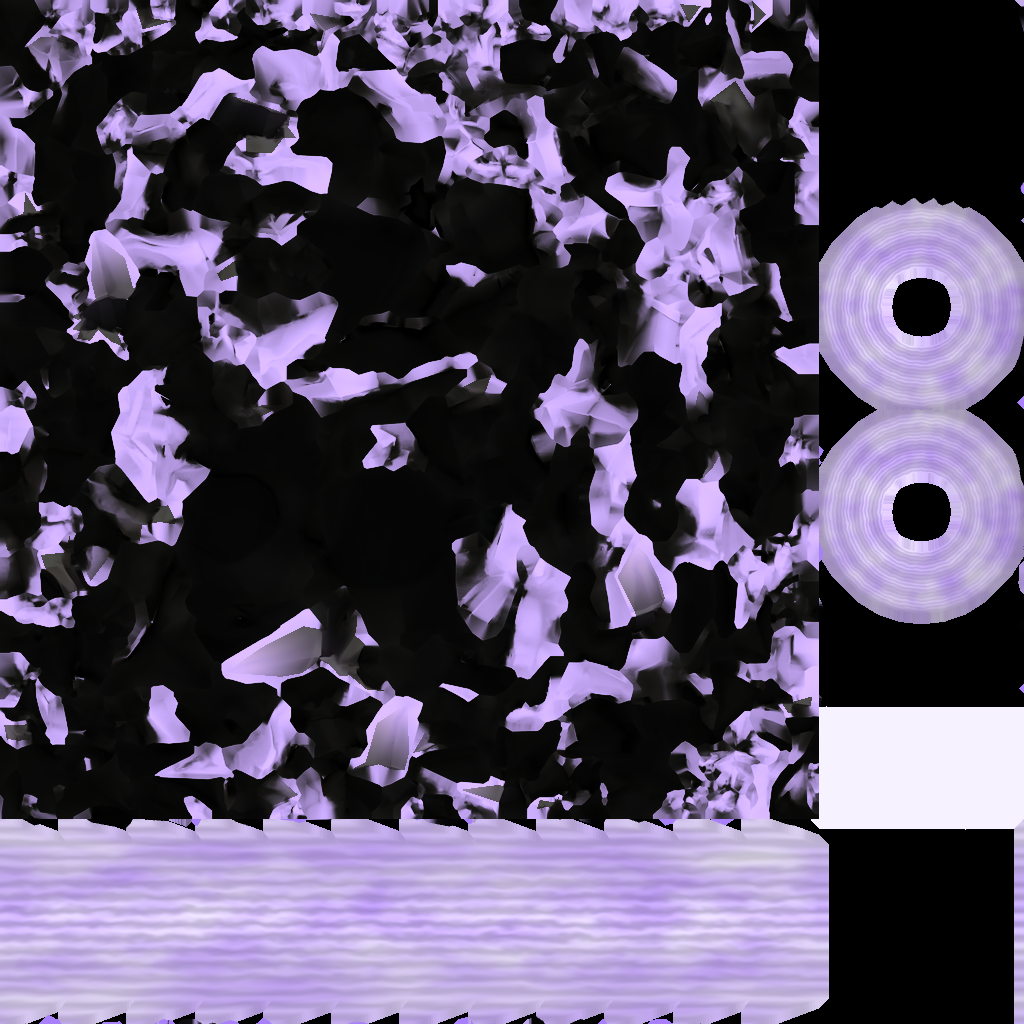
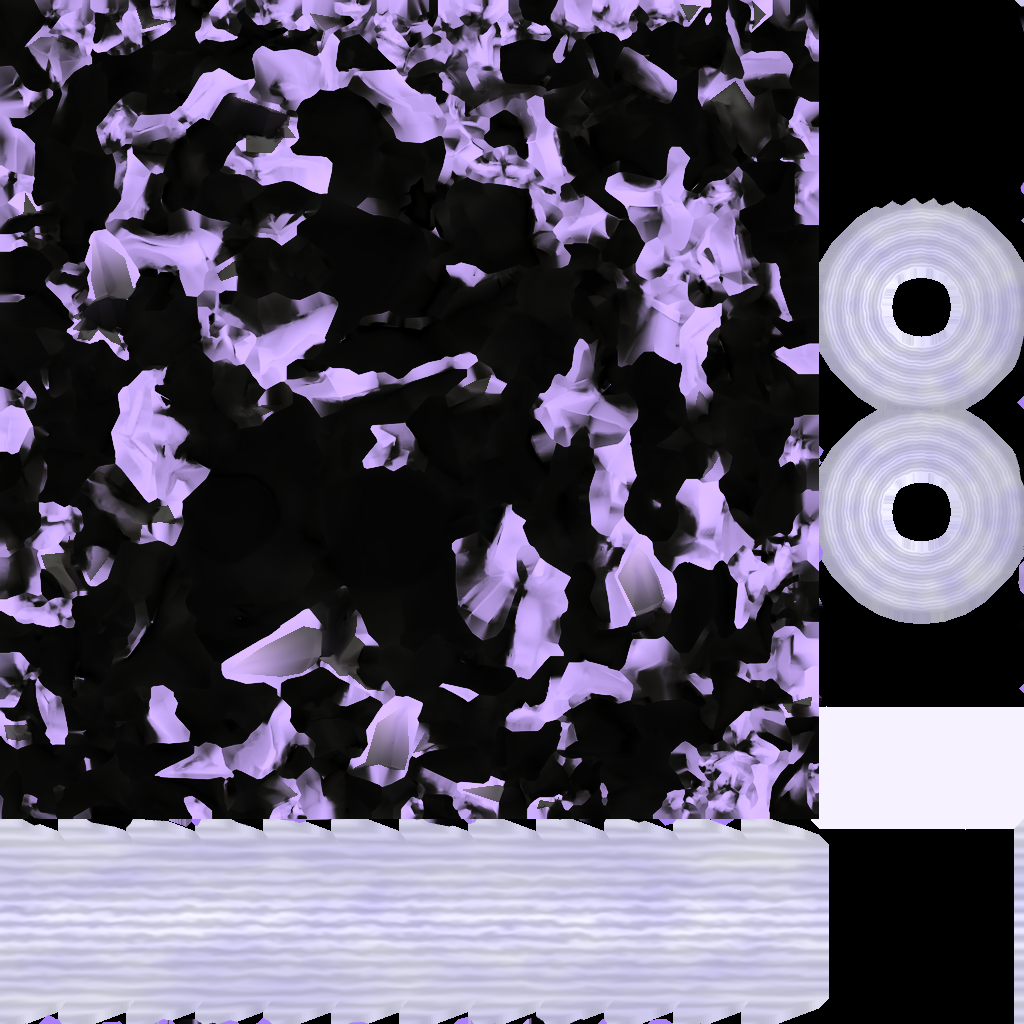
Horns + black hole: cooler lavender black hole colour (less pink)
Claude-Session: https://claude.ai/code/session_01M8xpJeZPsNE3rcjNjv2sRU

diff --git a/horns_blackhole/tools/bake.py b/horns_blackhole/tools/bake.py
@@ -40,9 +40,9 @@ e=0.30*ss(0.012,0.004,th)*(~chain)                  # faint glow on the very tip
 e[pend]=0.75
 col[m]=c; met[m]=mt; rgh[m]=np.clip(r,0.05,0.9); em[m]=e; h[m]=0.35*ridges+0.1*mid[m]
 # ---------- black hole ----------
-white=np.array([0.97,0.96,1.0]); mauve=np.array([0.76,0.62,1.0]); deep=np.array([0.62,0.50,0.95])
+white=np.array([0.97,0.97,1.0]); mauve=np.array([0.80,0.78,1.0])   # cool pale lavender, not pink; deep=np.array([0.62,0.50,0.95])
 def tint(v,seedp,sc_):
-    w=np.clip(0.55+1.1*fbm(seedp*sc_,3,17),0,1)[:,None]          # patches between white and light mauve
+    w=np.clip(0.45+1.0*fbm(seedp*sc_,3,17),0,1)[:,None]          # patches between white and light mauve
     return white*(1-w)+mauve*w
 m=k==PARTS.index('hole')                       # event horizon: absolute black, matte, no glow
 col[m]=0.0; met[m]=1.0; rgh[m]=1.0; em[m]=0.0; h[m]=0.0   # black metal: F0 = 0 -> reflects (almost) no light
